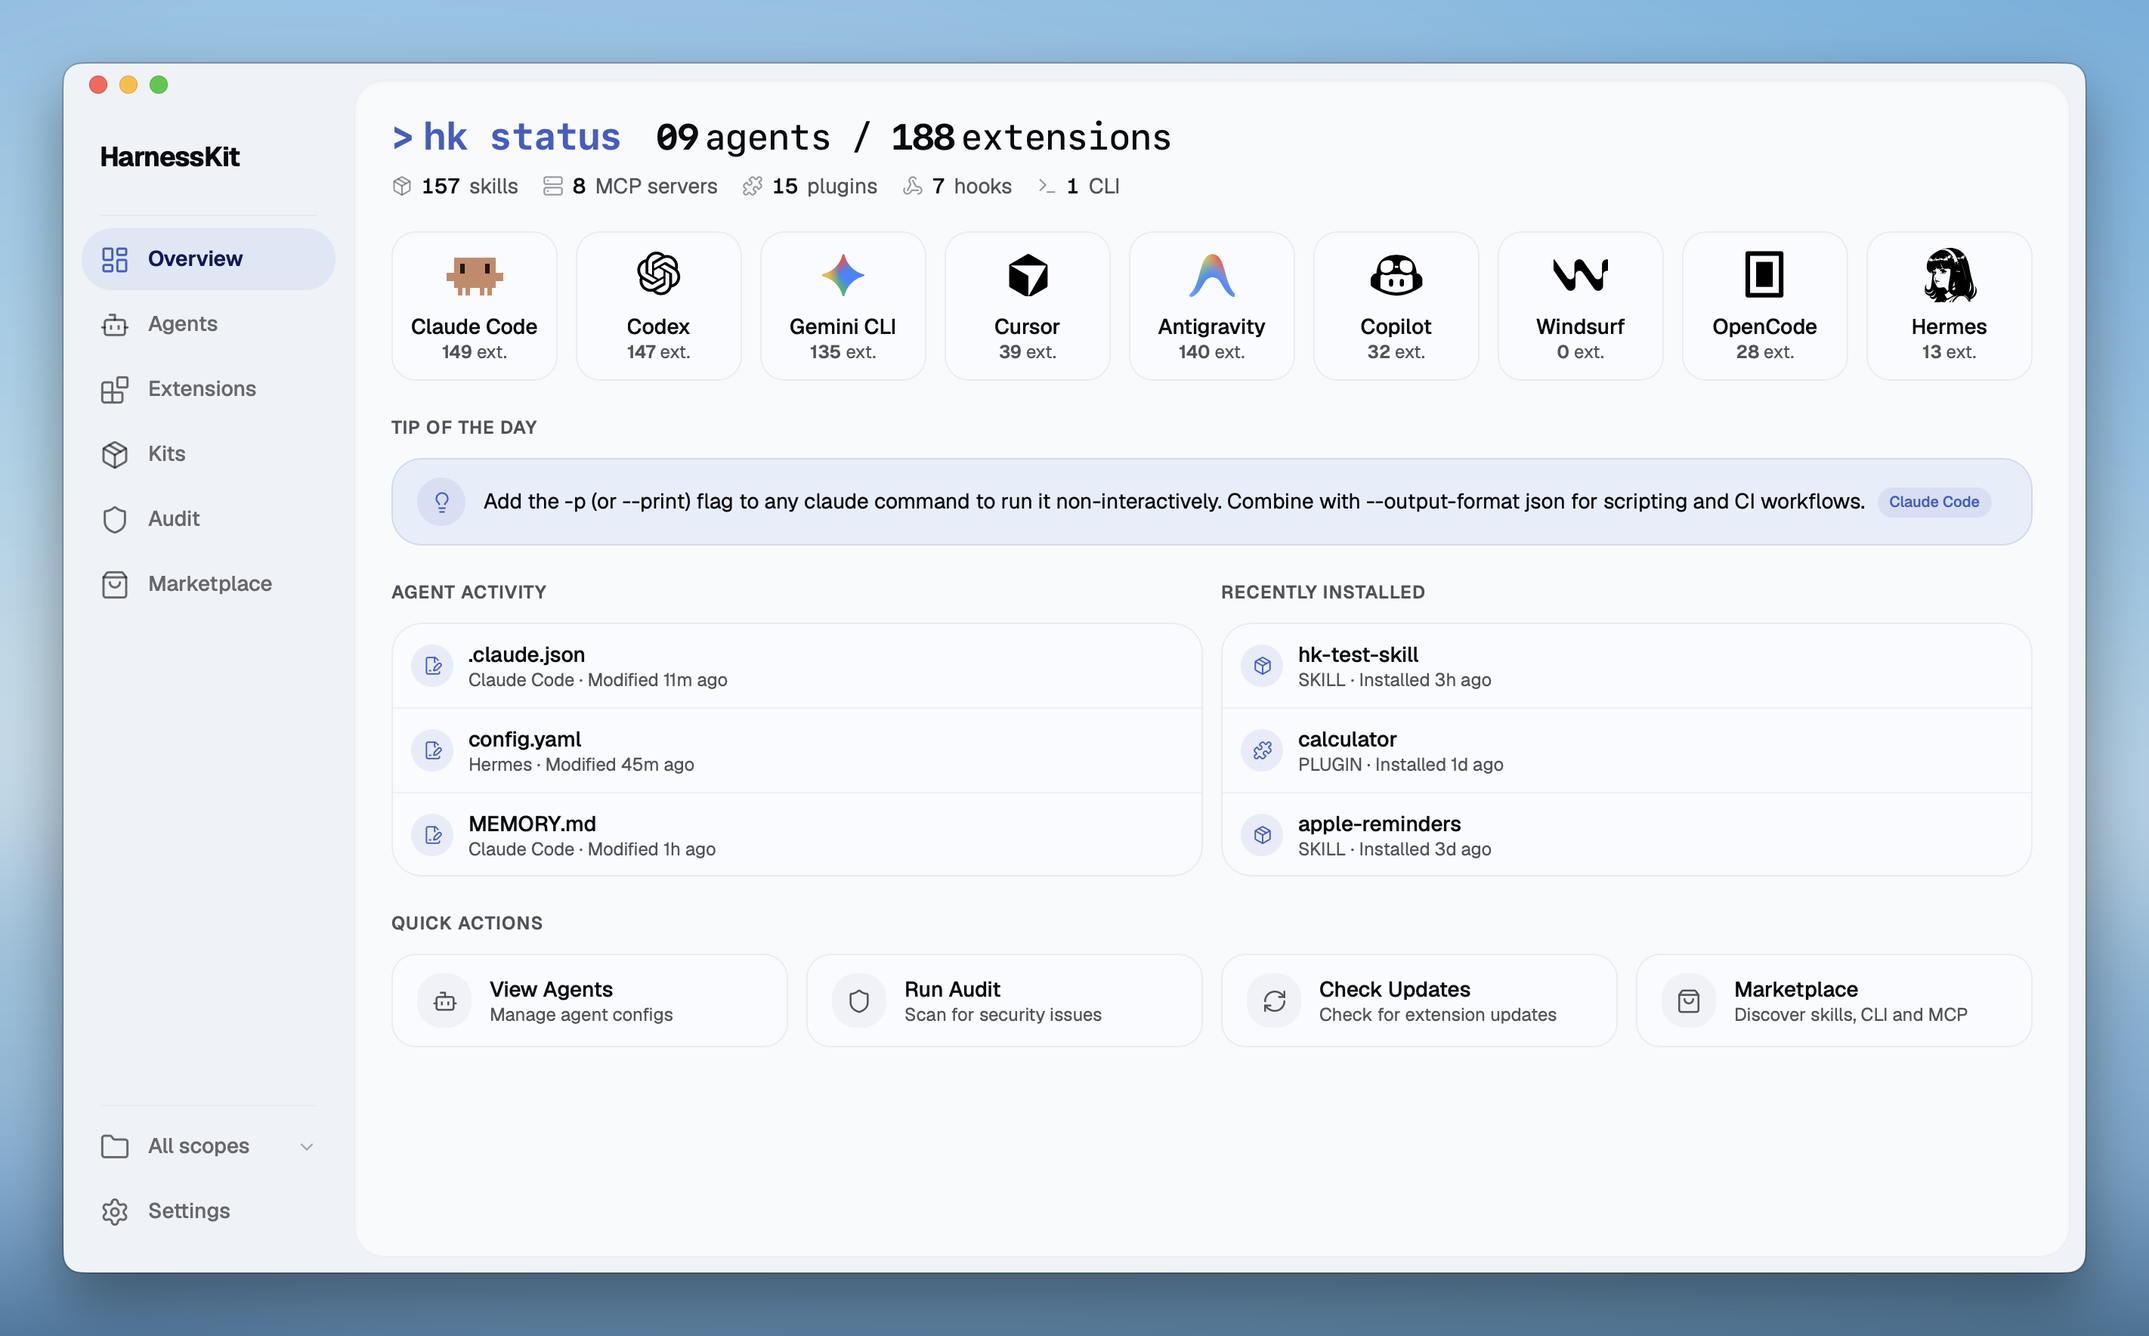
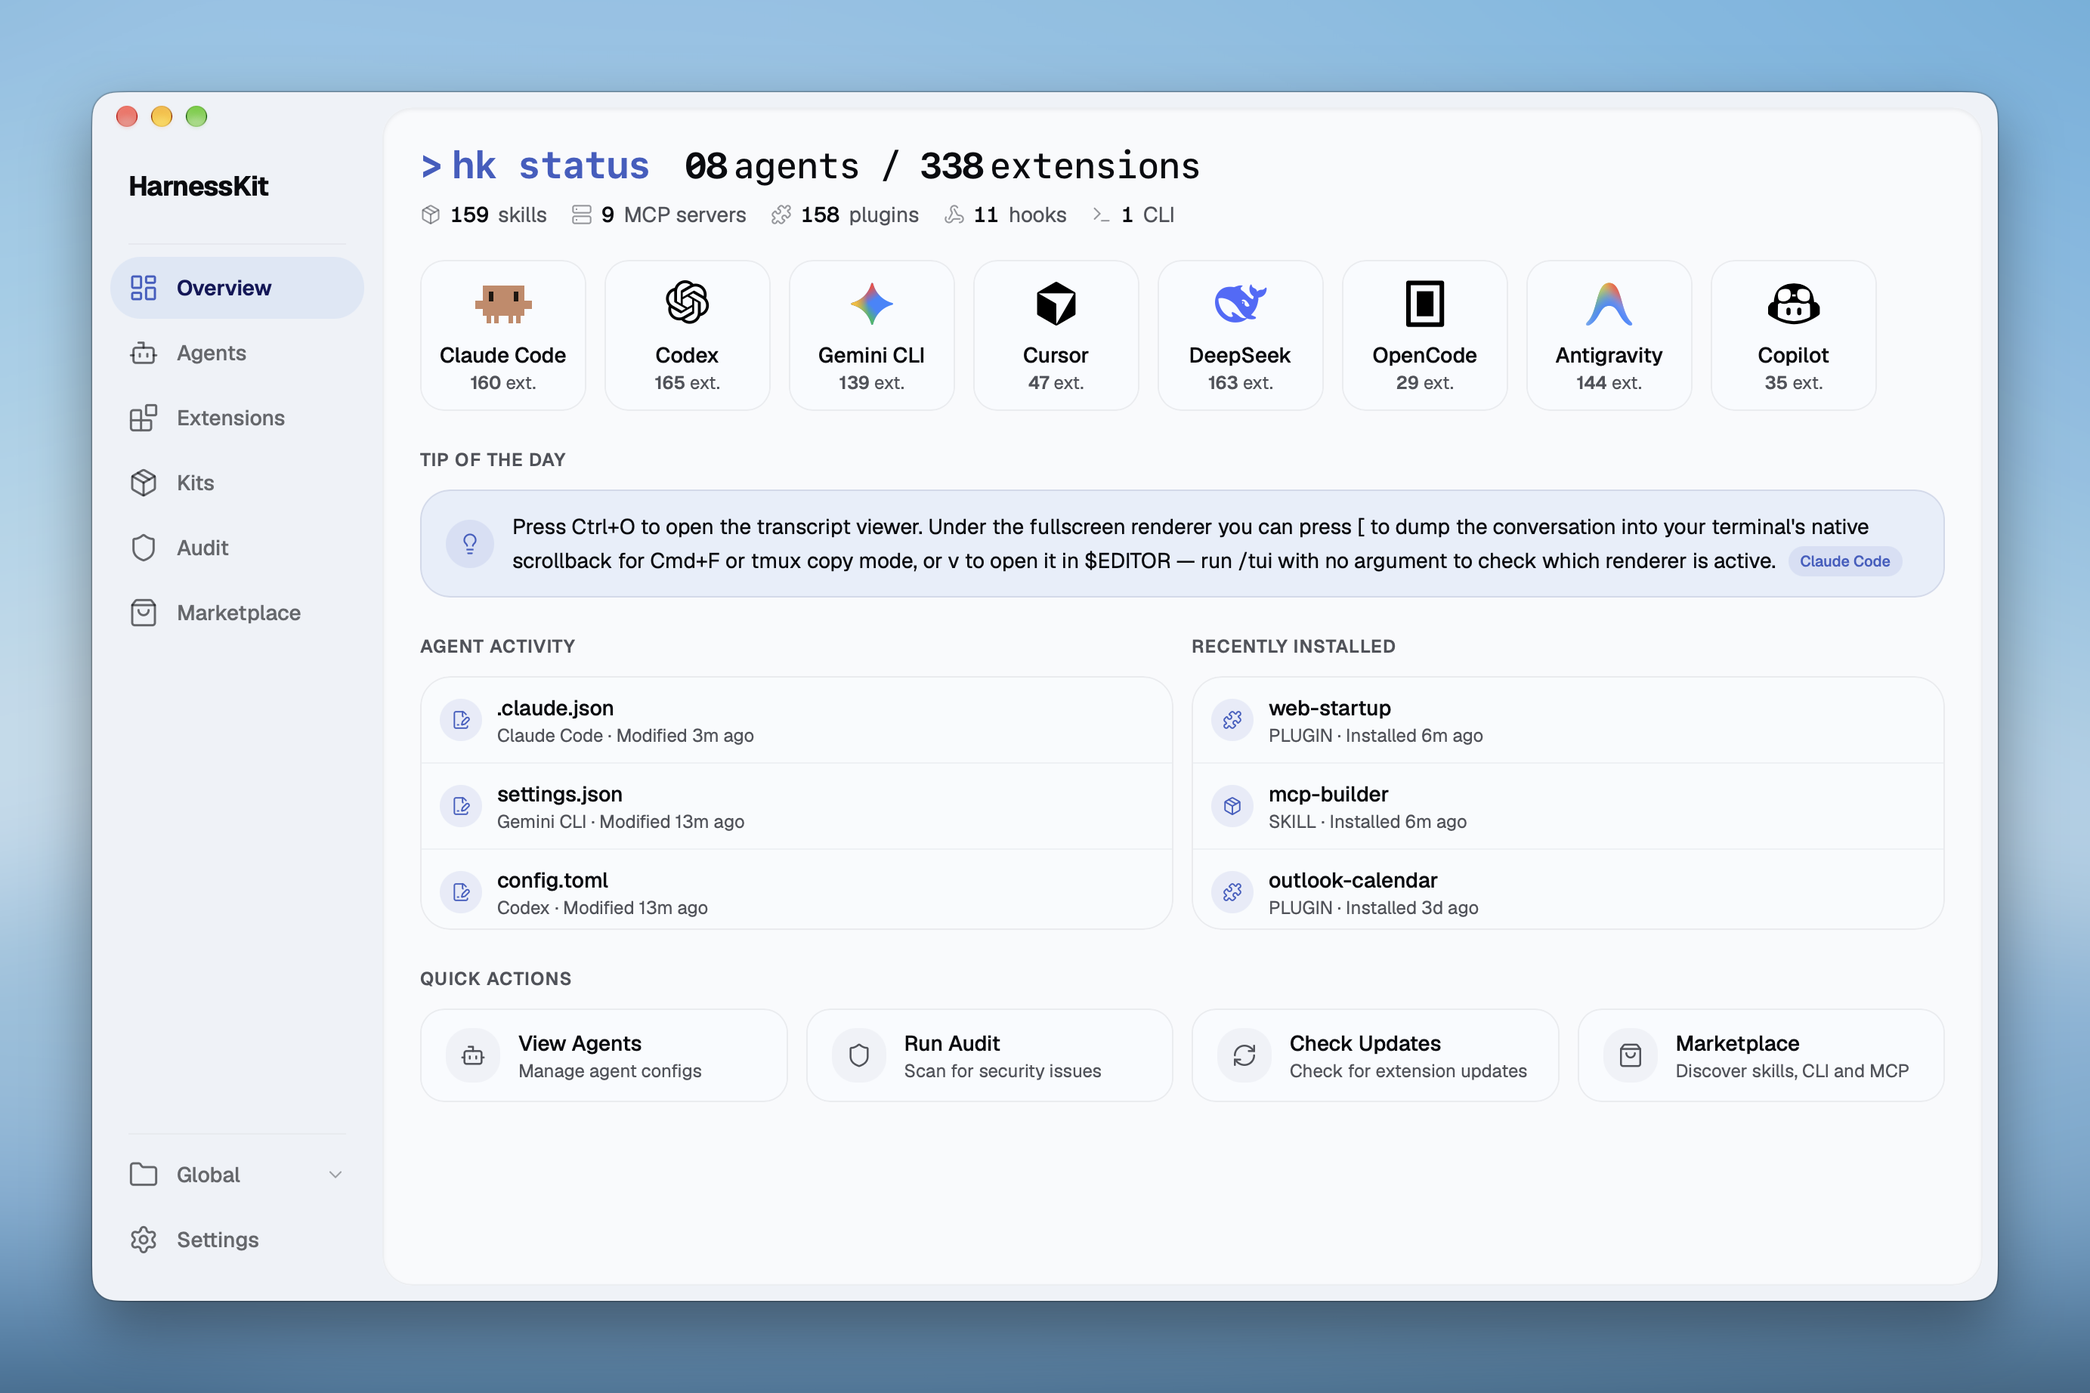
docs(readme): link the website and docs, refresh the overview screenshot (#183)
Website and Docs links in the header nav of both READMEs, and
media/overview.png replaced with the current Overview capture, the one
the website uses. Also: audit rules 18 -> 20; disabling described as
the agent's own switch, otherwise a rename or a snapshot; web mode
opens 127.0.0.1:7070 as hk serve prints; the remote Windows install
calls PowerShell explicitly; manual download gains the PATH step;
"M series" for Apple Silicon. website/README.md lists
release-assets.mjs among the paths the site reads outside website/.

diff --git a/README.md b/README.md
@@ -21,7 +21,7 @@
 </p>
 
 <p align="center">
-  <a href="#why-harnesskit">Why</a>&nbsp;&nbsp;&bull;&nbsp;&nbsp;<a href="#key-features">Features</a>&nbsp;&nbsp;&bull;&nbsp;&nbsp;<a href="#getting-started">Get Started</a>&nbsp;&nbsp;&bull;&nbsp;&nbsp;<a href="#roadmap">Roadmap</a>
+  <a href="https://harness-kit.dev">Website</a>&nbsp;&nbsp;&bull;&nbsp;&nbsp;<a href="https://harness-kit.dev/docs/">Docs</a>&nbsp;&nbsp;&bull;&nbsp;&nbsp;<a href="#why-harnesskit">Why</a>&nbsp;&nbsp;&bull;&nbsp;&nbsp;<a href="#key-features">Features</a>&nbsp;&nbsp;&bull;&nbsp;&nbsp;<a href="#getting-started">Get Started</a>&nbsp;&nbsp;&bull;&nbsp;&nbsp;<a href="#roadmap">Roadmap</a>
 </p>
 
 <br/>
@@ -106,7 +106,7 @@ https://github.com/user-attachments/assets/9b38494a-2ab3-4071-a450-02a30b859323
 
 ### 🛡 Security Audit & Permission Transparency
 
-Every extension is scanned by a built-in security engine with 18 static analysis rules and receives a **Trust Score** (0–100), grouped into three tiers — **Safe** (80+), **Low Risk** (60–79), and **Needs Review** (below 60). A dedicated Audit page lets you search, filter by tier, and drill into every finding.
+Every extension is scanned by a built-in security engine with 20 static analysis rules and receives a **Trust Score** (0–100), grouped into three tiers — **Safe** (80+), **Low Risk** (60–79), and **Needs Review** (below 60). A dedicated Audit page lets you search, filter by tier, and drill into every finding.
 
 - **One-click audit** — Run a full security scan across all extensions with a single click. The dashboard shows how many extensions were scanned and when the last audit ran.
 - **Precise tracing** — Every finding pinpoints the exact file and line number, so you can trace the issue immediately.
@@ -163,7 +163,7 @@ https://github.com/user-attachments/assets/c84b6513-484d-4b5d-b083-73de0b3e800e
 HarnessKit works directly with your agents' native directories instead of copying them into a managed folder — no shadow copies, no sync conflicts.
 
 - **Native directories** — Reads and writes directly to each agent's own config directory. Your files stay exactly where they are.
-- **Non-destructive operations** — Enabling or disabling an extension is a simple file rename in place. Nothing is moved or duplicated.
+- **Non-destructive operations** — Disabling uses the agent's own off switch where it has one. Otherwise a skill is renamed in place (`SKILL.md.disabled`), and a config entry is removed and kept as a snapshot, ready to restore. Nothing is moved or duplicated.
 - **Zero lock-in** — Uninstall HarnessKit and everything is exactly where it was. No migration, no cleanup needed.
 
 ---
@@ -226,7 +226,7 @@ This makes HarnessKit usable on **Linux servers**, **HPC clusters**, or any **he
 
    | Platform | File |
    |----------|------|
-   | macOS, Apple Silicon (M1/M2/M3/M4) | `HarnessKit_x.x.x_aarch64.dmg` |
+   | macOS, Apple Silicon (M series) | `HarnessKit_x.x.x_aarch64.dmg` |
    | macOS, Intel | `HarnessKit_x.x.x_x64.dmg` |
    | Windows 10 / 11, 64-bit | `HarnessKit_x.x.x_x64-setup.exe` |
 
@@ -259,7 +259,7 @@ Already installed? Open **Settings → Check for Updates** to upgrade in-app.
    hk serve
    ```
 
-   Then open the `http://localhost:7070/?token=…` URL that `hk serve` prints. Auth is on by default; the token is saved, so next time `http://localhost:7070` just works. On a trusted single-user machine, `hk serve --no-token` skips the token entirely.
+   Then open the `http://127.0.0.1:7070/?token=…` URL that `hk serve` prints. Auth is on by default; the token is saved, so next time `http://127.0.0.1:7070` just works. On a trusted single-user machine, `hk serve --no-token` skips the token entirely.
 
 #### Remote server
 
@@ -273,9 +273,9 @@ Already installed? Open **Settings → Check for Updates** to upgrade in-app.
    ```
 
    ```powershell
-   # Windows server
+   # Windows server (the SSH shell is cmd, so call PowerShell explicitly)
    ssh user@your-server
-   irm https://raw.githubusercontent.com/RealZST/HarnessKit/main/install.ps1 | iex
+   powershell -c "irm https://raw.githubusercontent.com/RealZST/HarnessKit/main/install.ps1 | iex"
    exit
    ```
 
@@ -286,7 +286,7 @@ Already installed? Open **Settings → Check for Updates** to upgrade in-app.
    hk serve
    ```
 
-   Then open the `http://localhost:7070/?token=…` URL that `hk serve` prints, in your local browser. Auth is on by default; the token is saved, so next time `http://localhost:7070` just works. Keep the SSH session running while you use HarnessKit.
+   Then open the `http://127.0.0.1:7070/?token=…` URL that `hk serve` prints, in your local browser. Auth is on by default; the token is saved, so next time `http://127.0.0.1:7070` just works. Keep the SSH session running while you use HarnessKit.
 
 > <sub>**Tip:** Managing several remote nodes? Start each with `hk serve --name <label>` (e.g. `--name my-macbook`). The label shows in the sidebar and the browser tab title, so multiple tabs are easy to tell apart. Defaults to the machine hostname.</sub>
 
@@ -322,13 +322,25 @@ Download the binary for your platform from the [latest release](https://github.c
    Move-Item <file> "$env:USERPROFILE\.local\bin\hk.exe"
    ```
 
-2. Start the web interface:
+2. Add `~/.local/bin` to your `PATH` if it isn't there yet (the install script does this for you), then restart the terminal:
+
+   ```bash
+   # macOS / Linux — ~/.zshrc for zsh, ~/.bashrc for bash
+   echo 'export PATH="$HOME/.local/bin:$PATH"' >> ~/.zshrc
+   ```
+
+   ```powershell
+   # Windows (PowerShell)
+   [Environment]::SetEnvironmentVariable("Path", "$env:USERPROFILE\.local\bin;" + [Environment]::GetEnvironmentVariable("Path", "User"), "User")
+   ```
+
+3. Start the web interface:
 
    ```bash
    hk serve
    ```
 
-   Then open the `http://localhost:7070/?token=…` URL that `hk serve` prints. Auth is on by default; the token is saved, so next time `http://localhost:7070` just works. On a trusted single-user machine, `hk serve --no-token` skips the token entirely.
+   Then open the `http://127.0.0.1:7070/?token=…` URL that `hk serve` prints. Auth is on by default; the token is saved, so next time `http://127.0.0.1:7070` just works. On a trusted single-user machine, `hk serve --no-token` skips the token entirely.
 
 **Remote server:**
 
@@ -343,6 +355,8 @@ Download the binary for your platform from the [latest release](https://github.c
    exit
    ```
 
+   If `~/.local/bin` isn't in the server's `PATH`, add it as in step 2 above.
+
 2. Start the web interface:
 
    ```bash
@@ -350,7 +364,7 @@ Download the binary for your platform from the [latest release](https://github.c
    hk serve
    ```
 
-   Then open the `http://localhost:7070/?token=…` URL that `hk serve` prints, in your local browser. Auth is on by default; the token is saved, so next time `http://localhost:7070` just works. Keep the SSH session running while you use HarnessKit.
+   Then open the `http://127.0.0.1:7070/?token=…` URL that `hk serve` prints, in your local browser. Auth is on by default; the token is saved, so next time `http://127.0.0.1:7070` just works. Keep the SSH session running while you use HarnessKit.
 
 </details>
 

diff --git a/README.zh-CN.md b/README.zh-CN.md
@@ -21,7 +21,7 @@
 </p>
 
 <p align="center">
-  <a href="#为什么选择-harnesskit">为什么</a>&nbsp;&nbsp;&bull;&nbsp;&nbsp;<a href="#核心特性">核心特性</a>&nbsp;&nbsp;&bull;&nbsp;&nbsp;<a href="#快速开始">快速开始</a>&nbsp;&nbsp;&bull;&nbsp;&nbsp;<a href="#未来计划">未来计划</a>
+  <a href="https://harness-kit.dev/zh/">官网</a>&nbsp;&nbsp;&bull;&nbsp;&nbsp;<a href="https://harness-kit.dev/zh/docs/">文档</a>&nbsp;&nbsp;&bull;&nbsp;&nbsp;<a href="#为什么选择-harnesskit">为什么</a>&nbsp;&nbsp;&bull;&nbsp;&nbsp;<a href="#核心特性">核心特性</a>&nbsp;&nbsp;&bull;&nbsp;&nbsp;<a href="#快速开始">快速开始</a>&nbsp;&nbsp;&bull;&nbsp;&nbsp;<a href="#未来计划">未来计划</a>
 </p>
 
 <br/>
@@ -106,7 +106,7 @@ https://github.com/user-attachments/assets/9b38494a-2ab3-4071-a450-02a30b859323
 
 ### 🛡 安全审计与权限透明
 
-内置安全引擎用 18 条静态分析规则逐个扫描扩展，给出 **信任评分**（0–100），分为三档 —— **安全**（80 分以上）、**低风险**（60–79）、**需复核**（60 分以下）。专属审计页面支持搜索、按等级筛选，可下钻到每一条发现。
+内置安全引擎用 20 条静态分析规则逐个扫描扩展，给出 **信任评分**（0–100），分为三档 —— **安全**（80 分以上）、**低风险**（60–79）、**需复核**（60 分以下）。专属审计页面支持搜索、按等级筛选，可下钻到每一条发现。
 
 - **一键审计** —— 一键对全部扩展执行完整安全扫描。面板会显示已扫描的扩展数量与最近一次审计时间。
 - **精确到行** —— 每条审计发现都标明所在文件与行号，便于快速定位。
@@ -163,7 +163,7 @@ https://github.com/user-attachments/assets/c84b6513-484d-4b5d-b083-73de0b3e800e
 HarnessKit 直接在 Agent 原本的目录中读写，不会将文件复制到任何"托管文件夹" —— 没有冗余副本，也不会有同步冲突。
 
 - **原位读写** —— 直接使用每个 Agent 的原有配置目录，你的文件保持原位不动。
-- **非破坏性操作** —— 启用或禁用扩展，仅是在原地做一次文件重命名，不移动、不复制。
+- **非破坏性操作** —— 禁用优先使用 Agent 自带的开关；没有开关时，skill 在原地重命名为 `SKILL.md.disabled`，配置条目则移除并保存快照，随时可恢复。不移动、不复制。
 - **随装随卸** —— 卸载 HarnessKit 后一切原封不动，无需迁移，也无需清理。
 
 ---
@@ -226,7 +226,7 @@ HarnessKit Web UI [my-host] running at http://127.0.0.1:7070/?token=a1b2c3…
 
    | 平台 | 文件 |
    |------|------|
-   | macOS，Apple Silicon（M1/M2/M3/M4） | `HarnessKit_x.x.x_aarch64.dmg` |
+   | macOS，Apple Silicon（M 系列） | `HarnessKit_x.x.x_aarch64.dmg` |
    | macOS，Intel | `HarnessKit_x.x.x_x64.dmg` |
    | Windows 10 / 11，64 位 | `HarnessKit_x.x.x_x64-setup.exe` |
 
@@ -259,7 +259,7 @@ HarnessKit Web UI [my-host] running at http://127.0.0.1:7070/?token=a1b2c3…
    hk serve
    ```
 
-   然后打开 `hk serve` 打印出的 `http://localhost:7070/?token=…` 链接。鉴权默认开启；token 会被保存，下次直接打开 `http://localhost:7070` 即可。可信的单用户机器上，用 `hk serve --no-token` 可完全跳过 token。
+   然后打开 `hk serve` 打印出的 `http://127.0.0.1:7070/?token=…` 链接。鉴权默认开启；token 会被保存，下次直接打开 `http://127.0.0.1:7070` 即可。可信的单用户机器上，用 `hk serve --no-token` 可完全跳过 token。
 
 #### 远程服务器
 
@@ -273,9 +273,9 @@ HarnessKit Web UI [my-host] running at http://127.0.0.1:7070/?token=a1b2c3…
    ```
 
    ```powershell
-   # Windows 服务器
+   # Windows 服务器（SSH 进去默认是 cmd，需显式调用 PowerShell）
    ssh user@your-server
-   irm https://raw.githubusercontent.com/RealZST/HarnessKit/main/install.ps1 | iex
+   powershell -c "irm https://raw.githubusercontent.com/RealZST/HarnessKit/main/install.ps1 | iex"
    exit
    ```
 
@@ -286,7 +286,7 @@ HarnessKit Web UI [my-host] running at http://127.0.0.1:7070/?token=a1b2c3…
    hk serve
    ```
 
-   然后在本地浏览器打开 `hk serve` 打印出的 `http://localhost:7070/?token=…` 链接。鉴权默认开启；token 会被保存，下次直接打开 `http://localhost:7070` 即可。使用 HarnessKit 期间请保持该 SSH 会话开启。
+   然后在本地浏览器打开 `hk serve` 打印出的 `http://127.0.0.1:7070/?token=…` 链接。鉴权默认开启；token 会被保存，下次直接打开 `http://127.0.0.1:7070` 即可。使用 HarnessKit 期间请保持该 SSH 会话开启。
 
 > <sub>**提示：** 管理多个远程节点时，用 `hk serve --name <标签>` 启动（如 `--name my-macbook`）。标签会显示在侧边栏和浏览器标签页标题里，多个 tab 一眼就能区分。默认取机器主机名。</sub>
 
@@ -322,13 +322,25 @@ HarnessKit Web UI [my-host] running at http://127.0.0.1:7070/?token=a1b2c3…
    Move-Item <file> "$env:USERPROFILE\.local\bin\hk.exe"
    ```
 
-2. 启动 Web 界面：
+2. 如果 `~/.local/bin` 还不在 `PATH` 里（安装脚本会自动处理），加进去并重开终端：
+
+   ```bash
+   # macOS / Linux —— zsh 写 ~/.zshrc，bash 写 ~/.bashrc
+   echo 'export PATH="$HOME/.local/bin:$PATH"' >> ~/.zshrc
+   ```
+
+   ```powershell
+   # Windows (PowerShell)
+   [Environment]::SetEnvironmentVariable("Path", "$env:USERPROFILE\.local\bin;" + [Environment]::GetEnvironmentVariable("Path", "User"), "User")
+   ```
+
+3. 启动 Web 界面：
 
    ```bash
    hk serve
    ```
 
-   然后打开 `hk serve` 打印出的 `http://localhost:7070/?token=…` 链接。鉴权默认开启；token 会被保存，下次直接打开 `http://localhost:7070` 即可。可信的单用户机器上，用 `hk serve --no-token` 可完全跳过 token。
+   然后打开 `hk serve` 打印出的 `http://127.0.0.1:7070/?token=…` 链接。鉴权默认开启；token 会被保存，下次直接打开 `http://127.0.0.1:7070` 即可。可信的单用户机器上，用 `hk serve --no-token` 可完全跳过 token。
 
 **远程服务器：**
 
@@ -343,6 +355,8 @@ HarnessKit Web UI [my-host] running at http://127.0.0.1:7070/?token=a1b2c3…
    exit
    ```
 
+   如果服务器的 `PATH` 里没有 `~/.local/bin`，按上面第 2 步加上。
+
 2. 启动 Web 界面：
 
    ```bash
@@ -350,7 +364,7 @@ HarnessKit Web UI [my-host] running at http://127.0.0.1:7070/?token=a1b2c3…
    hk serve
    ```
 
-   然后在本地浏览器打开 `hk serve` 打印出的 `http://localhost:7070/?token=…` 链接。鉴权默认开启；token 会被保存，下次直接打开 `http://localhost:7070` 即可。使用 HarnessKit 期间请保持该 SSH 会话开启。
+   然后在本地浏览器打开 `hk serve` 打印出的 `http://127.0.0.1:7070/?token=…` 链接。鉴权默认开启；token 会被保存，下次直接打开 `http://127.0.0.1:7070` 即可。使用 HarnessKit 期间请保持该 SSH 会话开启。
 
 </details>
 

diff --git a/website/README.md b/website/README.md
@@ -97,4 +97,4 @@ The code for each is in place and waits for the file.
 
 ## Deploying
 
-Static output in `dist/`. For Cloudflare Pages: root directory `website`, build command `npm run build`, output directory `dist`, Node 22 or newer, optional `GITHUB_TOKEN`. The site reads three places outside `website/`: the App's mascots (`src/components/shared/agent-mascot/`), `src/lib/types.ts` (a test) and `media/theme-*.png`, so a build-watch-paths filter should include those too. Any static host works: the only request a page makes at runtime is to the GitHub API for the latest release's download links and star count (`src/lib/live-release.ts`), with the build's values as the fallback, so a release needs no redeploy.
+Static output in `dist/`. For Cloudflare Pages: root directory `website`, build command `npm run build`, output directory `dist`, Node 22 or newer, optional `GITHUB_TOKEN`. The site reads four places outside `website/`: the App's mascots (`src/components/shared/agent-mascot/`), `src/lib/release-assets.mjs` (the build's release fetch), `media/theme-*.png` and `src/lib/types.ts` (a test), so a build-watch-paths filter should include those too. Any static host works: the only request a page makes at runtime is to the GitHub API for the latest release's download links and star count (`src/lib/live-release.ts`), with the build's values as the fallback, so a release needs no redeploy.
